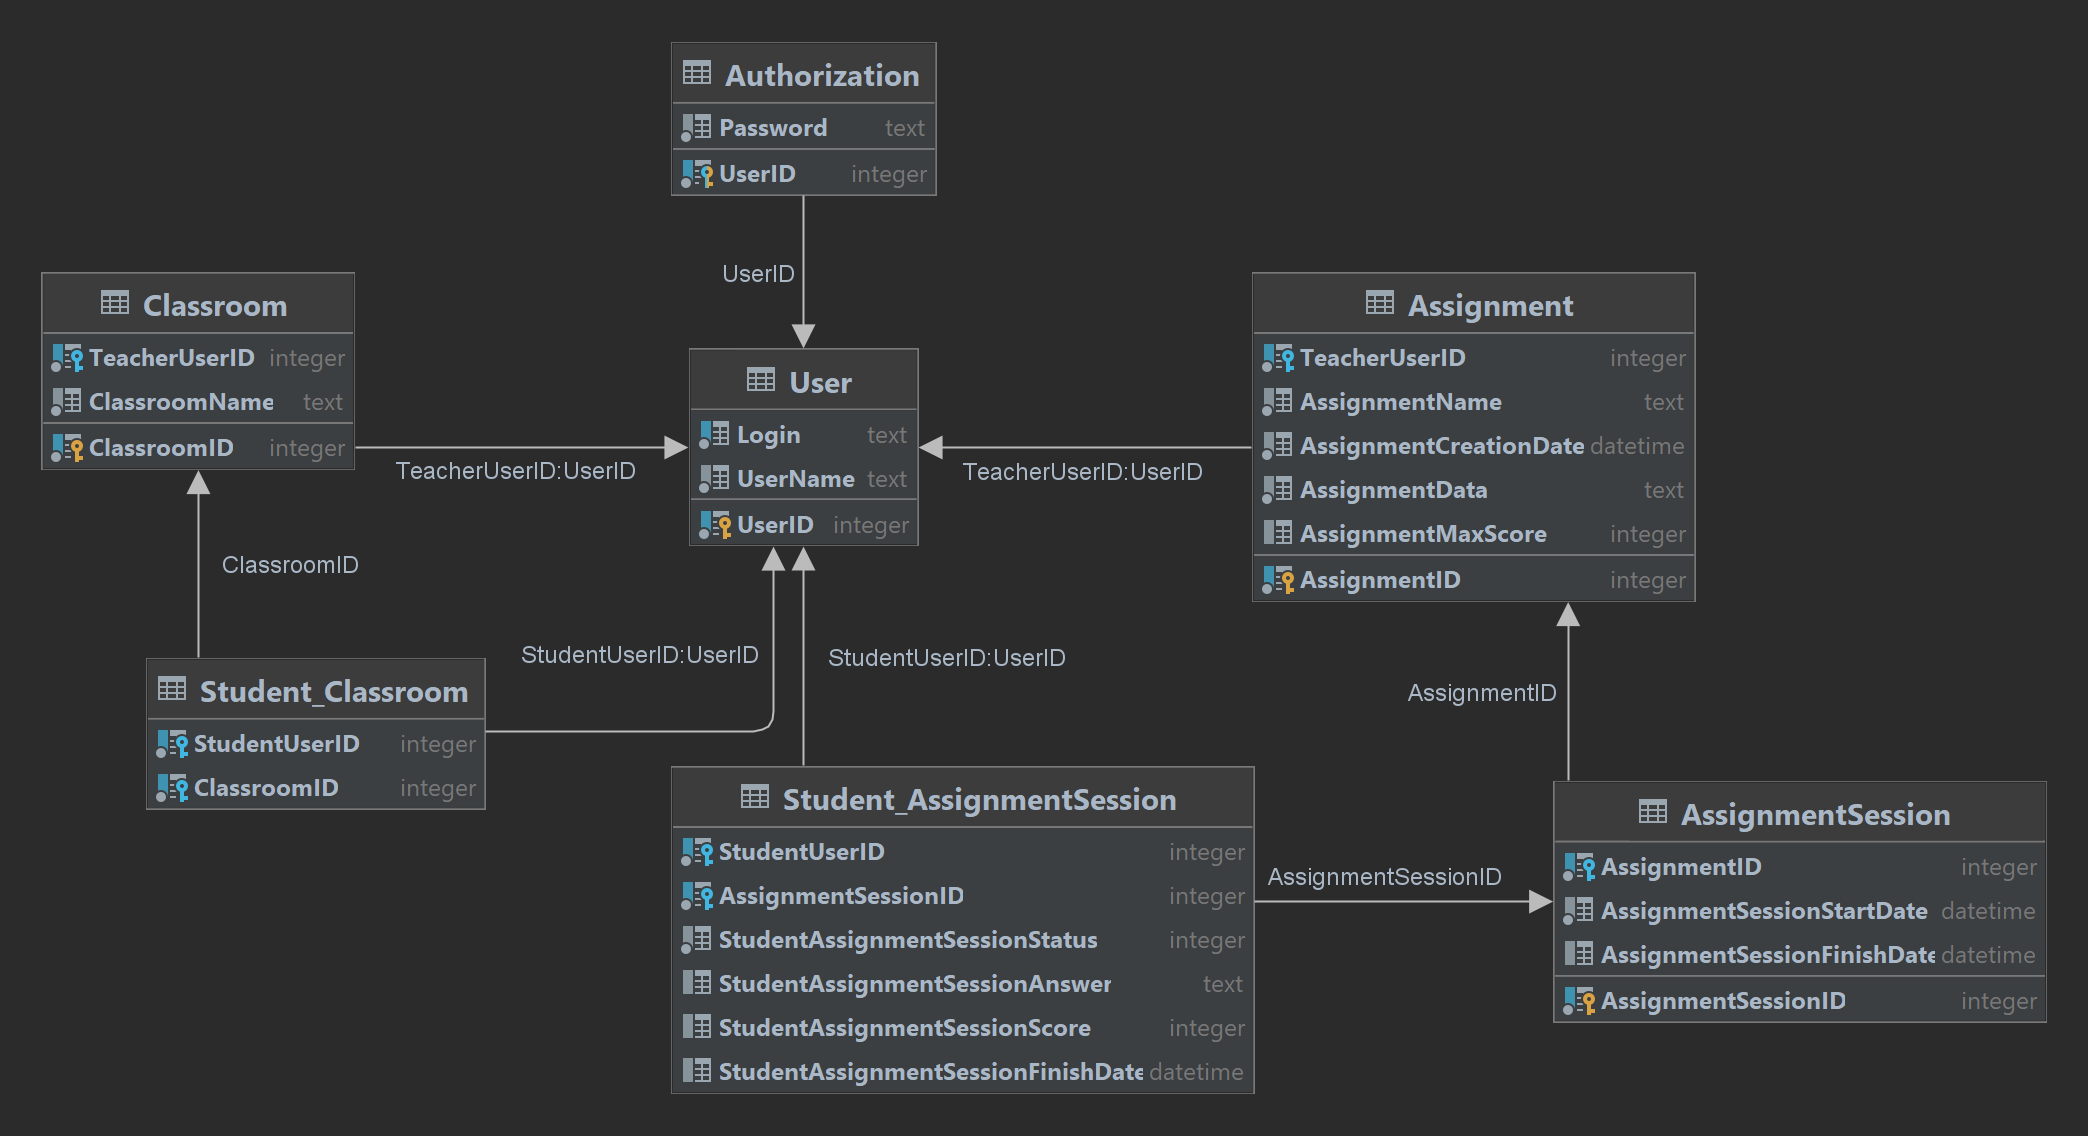
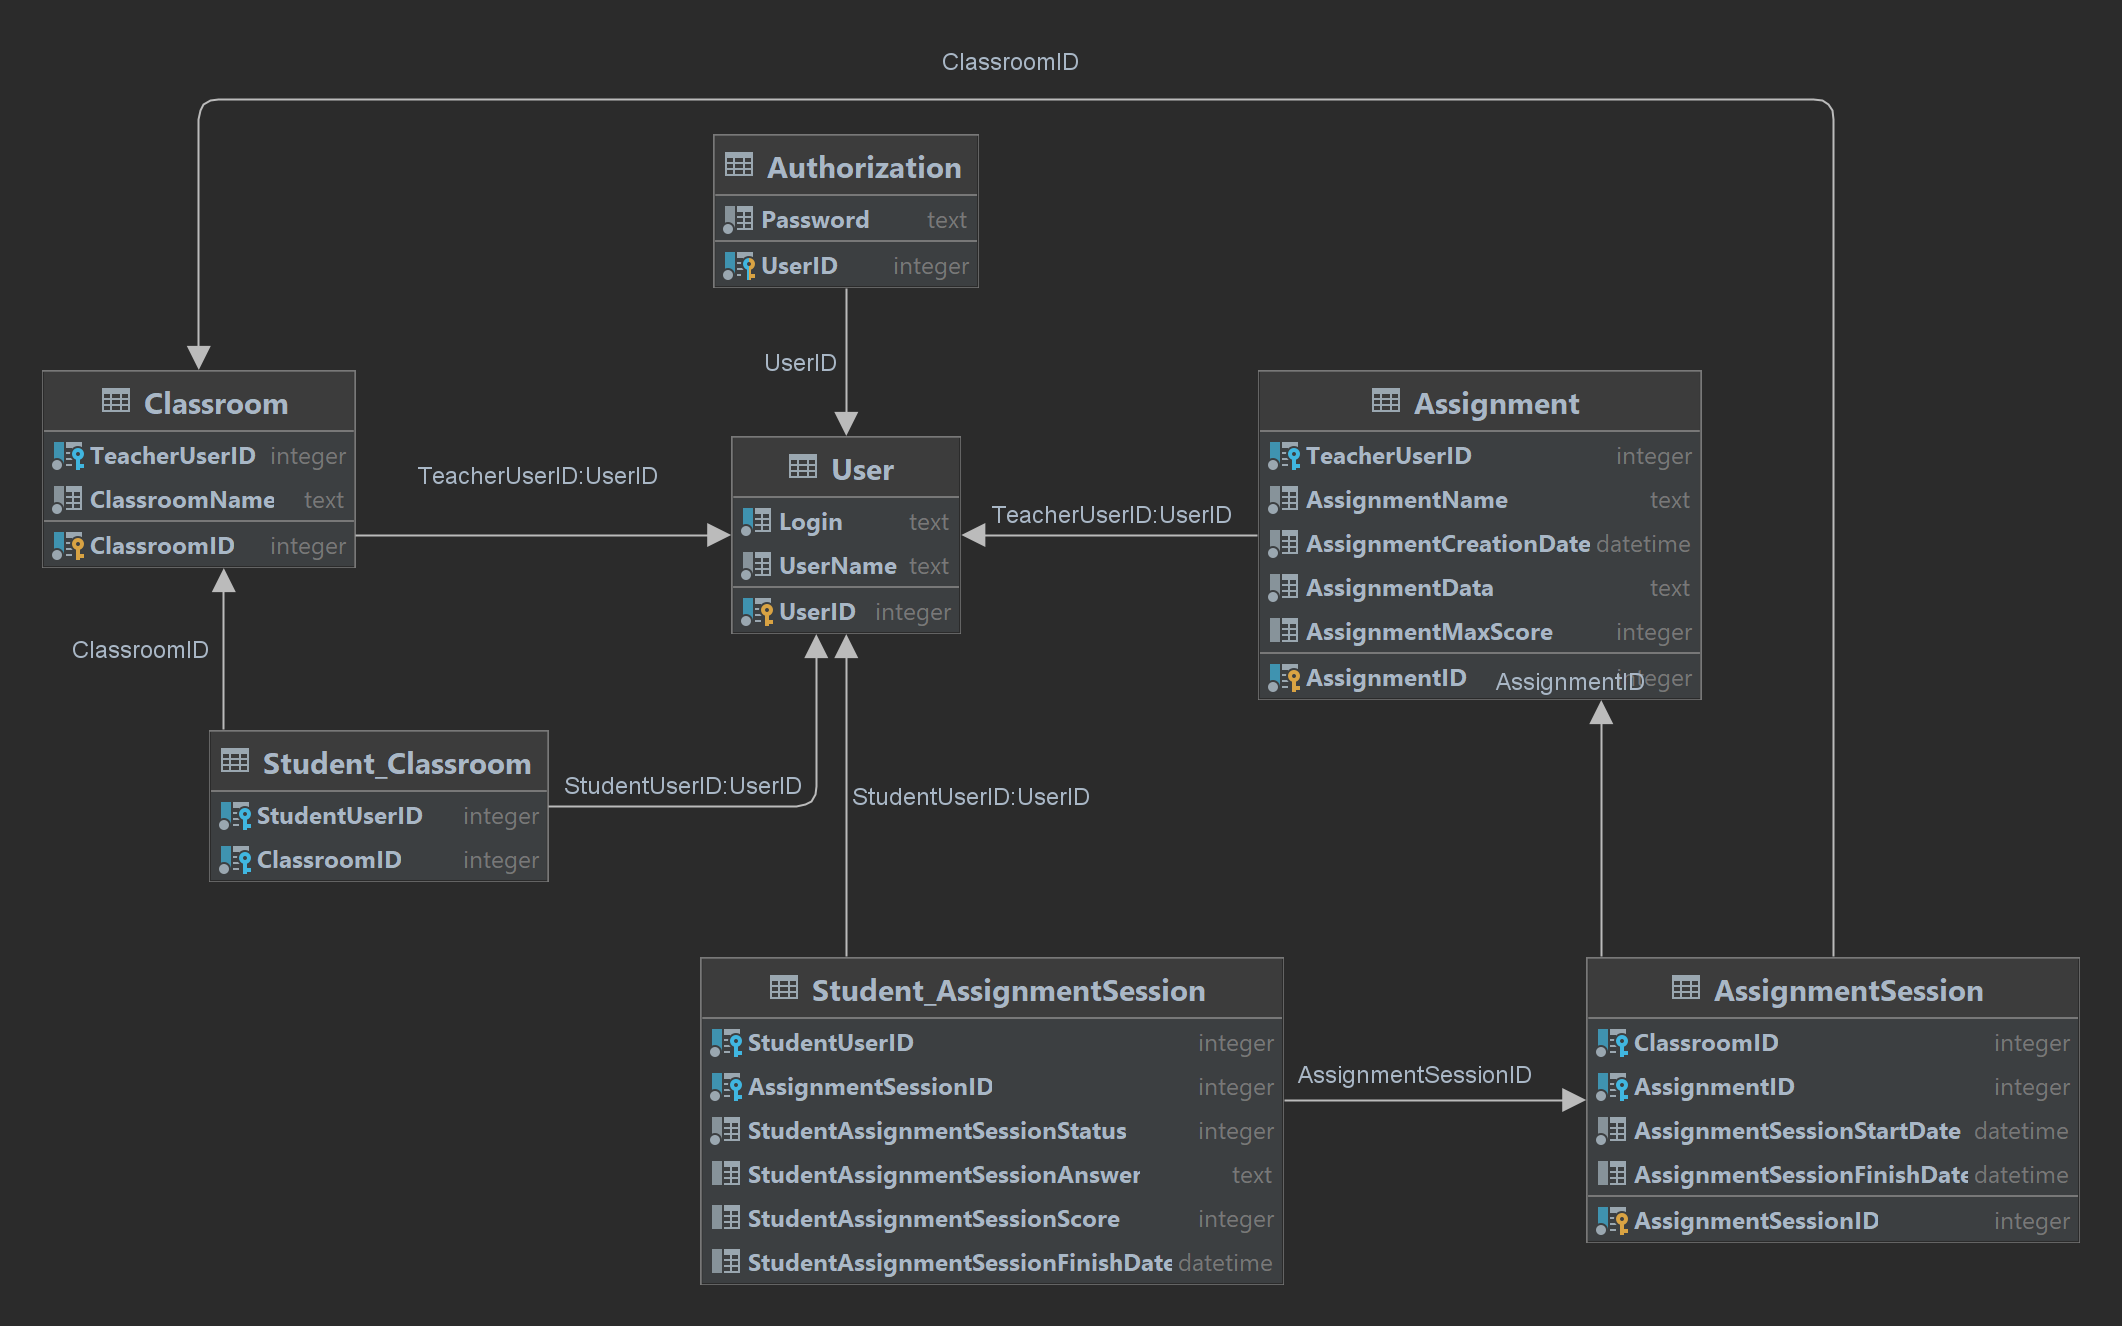
Added classroom_id_ field to AssignmentSession class, database update

Changed region(s): [[0.0, 0.0308, 0.9962, 0.9859], [0.6849, 0.5854, 0.7471, 0.6162]]

diff --git a/Server/Database/SQLite/SQLiteAdapter.cpp b/Server/Database/SQLite/SQLiteAdapter.cpp
@@ -53,94 +53,97 @@ bool SQLiteAdapter::exec(const std::string& command) const
 bool SQLiteAdapter::initDatabase() const
 {
     std::string command = "\n"
-                           "-- -----------------------------------------------------\n"
-                           "-- Table `User`\n"
-                           "-- -----------------------------------------------------\n"
-                           "CREATE TABLE IF NOT EXISTS `User` (\n"
-                           "  `UserID` INTEGER UNIQUE NOT NULL PRIMARY KEY AUTOINCREMENT,\n"
-                           "  `Login` TEXT UNIQUE NOT NULL,\n"
-                           "  `UserName` TEXT NOT NULL);\n"
-                           "CREATE UNIQUE INDEX IF NOT EXISTS `UserID_UNIQUE` ON `User`(`UserID`);\n"
-                           "CREATE UNIQUE INDEX IF NOT EXISTS `Login_UNIQUE` ON `User`(`Login`);\n"
-                           "\n"
-                           "\n"
-                           "-- -----------------------------------------------------\n"
-                           "-- Table `Authorization`\n"
-                           "-- -----------------------------------------------------\n"
-                           "CREATE TABLE IF NOT EXISTS `Authorization` (\n"
-                           "  `UserID` INTEGER UNIQUE NOT NULL PRIMARY KEY,\n"
-                           "  `Password` TEXT NOT NULL,\n"
-                           "  FOREIGN KEY (`UserID`) REFERENCES `User`(`UserID`) ON UPDATE CASCADE ON DELETE CASCADE);\n"
-                           "CREATE UNIQUE INDEX IF NOT EXISTS `UserID1_UNIQUE` ON `Authorization`(`UserID`);\n"
-                           "\n"
-                           "\n"
-                           "-- -----------------------------------------------------\n"
-                           "-- Table `Classroom`\n"
-                           "-- -----------------------------------------------------\n"
-                           "CREATE TABLE IF NOT EXISTS `Classroom` (\n"
-                           "  `ClassroomID` INTEGER UNIQUE NOT NULL PRIMARY KEY AUTOINCREMENT,\n"
-                           "  `TeacherUserID` INTEGER NOT NULL,\n"
-                           "  `ClassroomName` TEXT NOT NULL,\n"
-                           "  FOREIGN KEY (`TeacherUserID`) REFERENCES `User`(`UserID`) ON UPDATE CASCADE ON DELETE CASCADE);\n"
-                           "CREATE UNIQUE INDEX IF NOT EXISTS `ClassroomID_UNIQUE` ON `Classroom`(`ClassroomID`);\n"
-                           "CREATE INDEX IF NOT EXISTS `fk_Classroom_User_idx` ON `Classroom`(`TeacherUserID`);\n"
-                           "\n"
-                           "\n"
-                           "-- -----------------------------------------------------\n"
-                           "-- Table `Assignment`\n"
-                           "-- -----------------------------------------------------\n"
-                           "CREATE TABLE IF NOT EXISTS `Assignment` (\n"
-                           "  `AssignmentID` INTEGER UNIQUE NOT NULL PRIMARY KEY AUTOINCREMENT,\n"
-                           "  `TeacherUserID` INTEGER NOT NULL,\n"
-                           "  `AssignmentName` TEXT NOT NULL,\n"
-                           "  `AssignmentCreationDate` DATETIME NOT NULL DEFAULT current_timestamp,\n"
-                           "  `AssignmentData` TEXT NOT NULL,\n"
-                           "  `AssignmentMaxScore` INTEGER NULL,\n"
-                           "  FOREIGN KEY (`TeacherUserID`) REFERENCES `User`(`UserID`) ON UPDATE CASCADE ON DELETE CASCADE);\n"
-                           "CREATE UNIQUE INDEX IF NOT EXISTS `TaskID_UNIQUE` ON `Assignment`(`AssignmentID`);\n"
-                           "CREATE INDEX IF NOT EXISTS `fk_Assignment_User1_idx` ON `Assignment`(`TeacherUserID`);\n"
-                           "\n"
-                           "\n"
-                           "-- -----------------------------------------------------\n"
-                           "-- Table `Student_Classroom`\n"
-                           "-- -----------------------------------------------------\n"
-                           "CREATE TABLE IF NOT EXISTS `Student_Classroom` (\n"
-                           "  `StudentUserID` INTEGER NOT NULL,\n"
-                           "  `ClassroomID` INTEGER NOT NULL,\n"
-                           "  FOREIGN KEY (`StudentUserID`) REFERENCES `User`(`UserID`) ON UPDATE CASCADE ON DELETE CASCADE,\n"
-                           "  FOREIGN KEY (`ClassroomID`) REFERENCES `Classroom`(`ClassroomID`) ON UPDATE CASCADE ON DELETE CASCADE);\n"
-                           "CREATE INDEX IF NOT EXISTS `fk_User_has_Classroom_User1_idx` ON `Student_Classroom`(`StudentUserID`);\n"
-                           "CREATE INDEX IF NOT EXISTS `fk_User_has_Classroom_Classroom1_idx` ON `Student_Classroom`(`ClassroomID`);\n"
-                           "\n"
-                           "\n"
-                           "-- -----------------------------------------------------\n"
-                           "-- Table `AssignmentSession`\n"
-                           "-- -----------------------------------------------------\n"
-                           "CREATE TABLE IF NOT EXISTS `AssignmentSession` (\n"
-                           "  `AssignmentSessionID` INTEGER UNIQUE NOT NULL PRIMARY KEY AUTOINCREMENT,\n"
-                           "  `AssignmentID` INTEGER NOT NULL,\n"
-                           "  `AssignmentSessionStartDate` DATETIME NOT NULL DEFAULT current_timestamp,\n"
-                           "  `AssignmentSessionFinishDate` DATETIME NULL,\n"
-                           "  FOREIGN KEY (`AssignmentID`) REFERENCES `Assignment`(`AssignmentID`) ON UPDATE CASCADE ON DELETE CASCADE);\n"
-                           "CREATE UNIQUE INDEX IF NOT EXISTS `AssignmentSessionID_UNIQUE` ON `AssignmentSession`(`AssignmentSessionID`);\n"
-                           "CREATE INDEX IF NOT EXISTS `fk_AssignmentSession_Assignment1_idx` ON `AssignmentSession`(`AssignmentID`);\n"
-                           "\n"
-                           "\n"
-                           "-- -----------------------------------------------------\n"
-                           "-- Table `Student_AssignmentSession`\n"
-                           "-- -----------------------------------------------------\n"
-                           "CREATE TABLE IF NOT EXISTS `Student_AssignmentSession` (\n"
-                           "  `StudentUserID` INTEGER NOT NULL,\n"
-                           "  `AssignmentSessionID` INTEGER NOT NULL,\n"
-                           "  `StudentAssignmentSessionStatus` INTEGER NOT NULL,\n"
-                           "  `StudentAssignmentSessionAnswer` TEXT NULL,\n"
-                           "  `StudentAssignmentSessionScore` INTEGER NULL,\n"
-                           "  `StudentAssignmentSessionFinishDate` DATETIME NULL,\n"
-                           "  FOREIGN KEY (`StudentUserID`) REFERENCES `User`(`UserID`) ON UPDATE CASCADE ON DELETE CASCADE,\n"
-                           "  FOREIGN KEY (`AssignmentSessionID`) REFERENCES `AssignmentSession`(`AssignmentSessionID`) ON UPDATE CASCADE ON DELETE CASCADE);\n"
-                           "CREATE INDEX IF NOT EXISTS `fk_Assignment_has_User_User1_idx` ON `Student_AssignmentSession`(`StudentUserID`);\n"
-                           "CREATE INDEX IF NOT EXISTS `fk_Student_AssignmentSession_AssignmentSession1_idx` ON `Student_AssignmentSession`(`AssignmentSessionID`);\n"
-                           "";
+                          "-- -----------------------------------------------------\n"
+                          "-- Table `User`\n"
+                          "-- -----------------------------------------------------\n"
+                          "CREATE TABLE IF NOT EXISTS `User` (\n"
+                          "  `UserID` INTEGER UNIQUE NOT NULL PRIMARY KEY AUTOINCREMENT,\n"
+                          "  `Login` TEXT UNIQUE NOT NULL,\n"
+                          "  `UserName` TEXT NOT NULL);\n"
+                          "CREATE UNIQUE INDEX IF NOT EXISTS `UserID_UNIQUE` ON `User`(`UserID`);\n"
+                          "CREATE UNIQUE INDEX IF NOT EXISTS `Login_UNIQUE` ON `User`(`Login`);\n"
+                          "\n"
+                          "\n"
+                          "-- -----------------------------------------------------\n"
+                          "-- Table `Authorization`\n"
+                          "-- -----------------------------------------------------\n"
+                          "CREATE TABLE IF NOT EXISTS `Authorization` (\n"
+                          "  `UserID` INTEGER UNIQUE NOT NULL PRIMARY KEY,\n"
+                          "  `Password` TEXT NOT NULL,\n"
+                          "  FOREIGN KEY (`UserID`) REFERENCES `User`(`UserID`) ON UPDATE CASCADE ON DELETE CASCADE);\n"
+                          "CREATE UNIQUE INDEX IF NOT EXISTS `UserID1_UNIQUE` ON `Authorization`(`UserID`);\n"
+                          "\n"
+                          "\n"
+                          "-- -----------------------------------------------------\n"
+                          "-- Table `Classroom`\n"
+                          "-- -----------------------------------------------------\n"
+                          "CREATE TABLE IF NOT EXISTS `Classroom` (\n"
+                          "  `ClassroomID` INTEGER UNIQUE NOT NULL PRIMARY KEY AUTOINCREMENT,\n"
+                          "  `TeacherUserID` INTEGER NOT NULL,\n"
+                          "  `ClassroomName` TEXT NOT NULL,\n"
+                          "  FOREIGN KEY (`TeacherUserID`) REFERENCES `User`(`UserID`) ON UPDATE CASCADE ON DELETE CASCADE);\n"
+                          "CREATE UNIQUE INDEX IF NOT EXISTS `ClassroomID_UNIQUE` ON `Classroom`(`ClassroomID`);\n"
+                          "CREATE INDEX IF NOT EXISTS `fk_Classroom_User_idx` ON `Classroom`(`TeacherUserID`);\n"
+                          "\n"
+                          "\n"
+                          "-- -----------------------------------------------------\n"
+                          "-- Table `Assignment`\n"
+                          "-- -----------------------------------------------------\n"
+                          "CREATE TABLE IF NOT EXISTS `Assignment` (\n"
+                          "  `AssignmentID` INTEGER UNIQUE NOT NULL PRIMARY KEY AUTOINCREMENT,\n"
+                          "  `TeacherUserID` INTEGER NOT NULL,\n"
+                          "  `AssignmentName` TEXT NOT NULL,\n"
+                          "  `AssignmentCreationDate` DATETIME NOT NULL DEFAULT current_timestamp,\n"
+                          "  `AssignmentData` TEXT NOT NULL,\n"
+                          "  `AssignmentMaxScore` INTEGER NULL,\n"
+                          "  FOREIGN KEY (`TeacherUserID`) REFERENCES `User`(`UserID`) ON UPDATE CASCADE ON DELETE CASCADE);\n"
+                          "CREATE UNIQUE INDEX IF NOT EXISTS `TaskID_UNIQUE` ON `Assignment`(`AssignmentID`);\n"
+                          "CREATE INDEX IF NOT EXISTS `fk_Assignment_User1_idx` ON `Assignment`(`TeacherUserID`);\n"
+                          "\n"
+                          "\n"
+                          "-- -----------------------------------------------------\n"
+                          "-- Table `Student_Classroom`\n"
+                          "-- -----------------------------------------------------\n"
+                          "CREATE TABLE IF NOT EXISTS `Student_Classroom` (\n"
+                          "  `StudentUserID` INTEGER NOT NULL,\n"
+                          "  `ClassroomID` INTEGER NOT NULL,\n"
+                          "  FOREIGN KEY (`StudentUserID`) REFERENCES `User`(`UserID`) ON UPDATE CASCADE ON DELETE CASCADE,\n"
+                          "  FOREIGN KEY (`ClassroomID`) REFERENCES `Classroom`(`ClassroomID`) ON UPDATE CASCADE ON DELETE CASCADE);\n"
+                          "CREATE INDEX IF NOT EXISTS `fk_User_has_Classroom_User1_idx` ON `Student_Classroom`(`StudentUserID`);\n"
+                          "CREATE INDEX IF NOT EXISTS `fk_User_has_Classroom_Classroom1_idx` ON `Student_Classroom`(`ClassroomID`);\n"
+                          "\n"
+                          "\n"
+                          "-- -----------------------------------------------------\n"
+                          "-- Table `AssignmentSession`\n"
+                          "-- -----------------------------------------------------\n"
+                          "CREATE TABLE IF NOT EXISTS `AssignmentSession` (\n"
+                          "  `AssignmentSessionID` INTEGER UNIQUE NOT NULL PRIMARY KEY AUTOINCREMENT,\n"
+                          "  `ClassroomID` INTEGER NOT NULL,\n"
+                          "  `AssignmentID` INTEGER NOT NULL,\n"
+                          "  `AssignmentSessionStartDate` DATETIME NOT NULL DEFAULT current_timestamp,\n"
+                          "  `AssignmentSessionFinishDate` DATETIME NULL,\n"
+                          "  FOREIGN KEY (`ClassroomID`) REFERENCES `Classroom`(`ClassroomID`) ON UPDATE CASCADE ON DELETE CASCADE,\n"
+                          "  FOREIGN KEY (`AssignmentID`) REFERENCES `Assignment`(`AssignmentID`) ON UPDATE CASCADE ON DELETE CASCADE);\n"
+                          "CREATE UNIQUE INDEX IF NOT EXISTS `AssignmentSessionID_UNIQUE` ON `AssignmentSession`(`AssignmentSessionID`);\n"
+                          "CREATE INDEX IF NOT EXISTS `fk_AssignmentSession_Classroom1_idx` ON `AssignmentSession`(`ClassroomID`);\n"
+                          "CREATE INDEX IF NOT EXISTS `fk_AssignmentSession_Assignment1_idx` ON `AssignmentSession`(`AssignmentID`);\n"
+                          "\n"
+                          "\n"
+                          "-- -----------------------------------------------------\n"
+                          "-- Table `Student_AssignmentSession`\n"
+                          "-- -----------------------------------------------------\n"
+                          "CREATE TABLE IF NOT EXISTS `Student_AssignmentSession` (\n"
+                          "  `StudentUserID` INTEGER NOT NULL,\n"
+                          "  `AssignmentSessionID` INTEGER NOT NULL,\n"
+                          "  `StudentAssignmentSessionStatus` INTEGER NOT NULL,\n"
+                          "  `StudentAssignmentSessionAnswer` TEXT NULL,\n"
+                          "  `StudentAssignmentSessionScore` INTEGER NULL,\n"
+                          "  `StudentAssignmentSessionFinishDate` DATETIME NULL,\n"
+                          "  FOREIGN KEY (`StudentUserID`) REFERENCES `User`(`UserID`) ON UPDATE CASCADE ON DELETE CASCADE,\n"
+                          "  FOREIGN KEY (`AssignmentSessionID`) REFERENCES `AssignmentSession`(`AssignmentSessionID`) ON UPDATE CASCADE ON DELETE CASCADE);\n"
+                          "CREATE INDEX IF NOT EXISTS `fk_Assignment_has_User_User1_idx` ON `Student_AssignmentSession`(`StudentUserID`);\n"
+                          "CREATE INDEX IF NOT EXISTS `fk_Student_AssignmentSession_AssignmentSession1_idx` ON `Student_AssignmentSession`(`AssignmentSessionID`);\n"
+                          "";
     return SQLiteAdapter::exec(command);
 }
 

diff --git a/common_src/Entities/AssignmentSession.h b/common_src/Entities/AssignmentSession.h
@@ -6,6 +6,7 @@
 class AssignmentSession : Entity
 {
     ID assignment_session_id_ = 0;
+    ID classroom_id_ = 0;
     ID assignment_id_ = 0;
     DATETIME assignment_session_start_date_ = "";
     DATETIME assignment_session_end_date_ = "";
@@ -18,6 +19,11 @@ public:
     void setAssignmentSessionId(const ID& assignment_session_id)
     {
         assignment_session_id_ = assignment_session_id;
+    }
+
+    void setClassroomId(const ID& classroom_id)
+    {
+        classroom_id_ = classroom_id;
     }
 
     void setAssignmentId(const ID& assignment_id)
@@ -38,6 +44,11 @@ public:
     ID getAssignmentSessionId() const
     {
         return assignment_session_id_;
+    }
+
+    ID getClassroomId() const
+    {
+        return classroom_id_;
     }
 
     ID getAssignmentId() const
